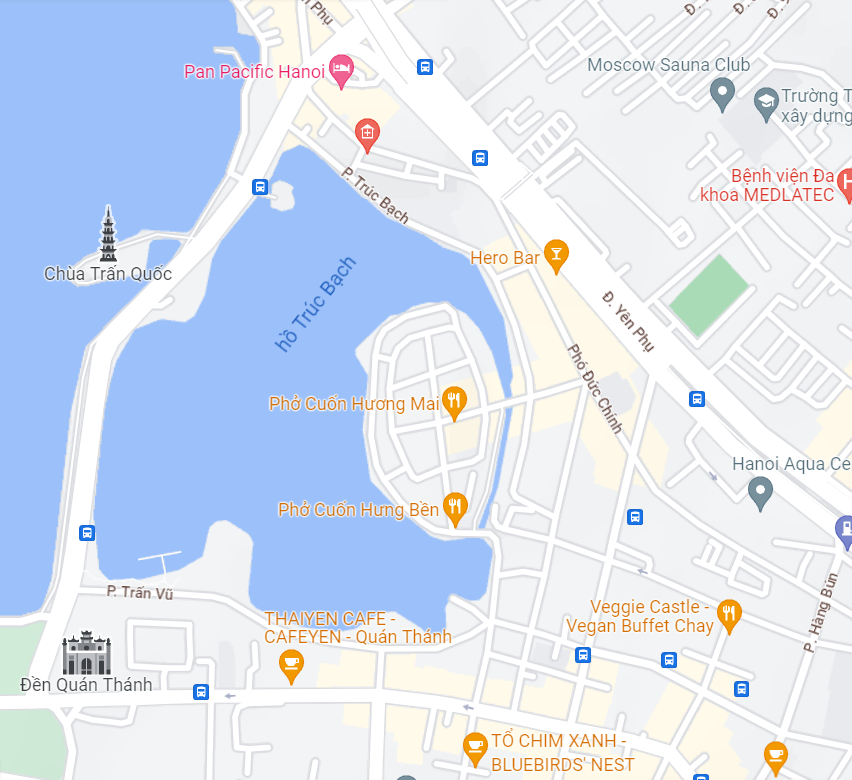
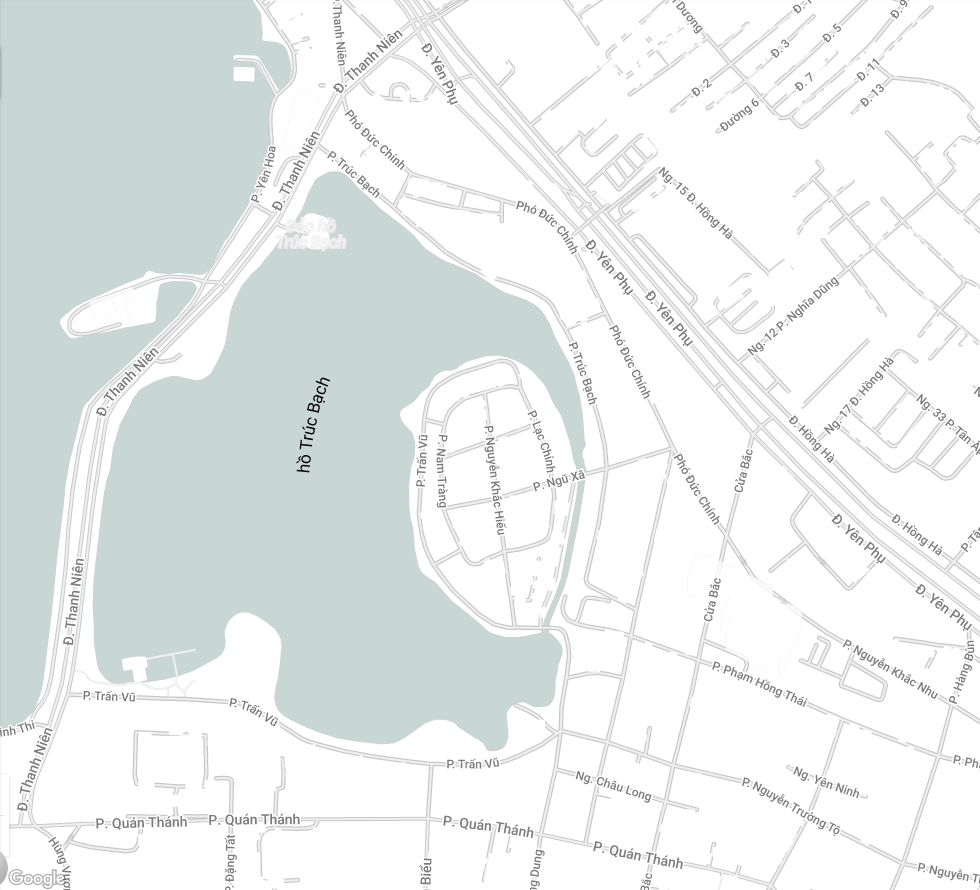
fix map background

diff --git a/src/const.py b/src/const.py
@@ -1,5 +1,5 @@
-WIDTH = 852
-HEIGHT = 780
+WIDTH = 890
+HEIGHT = 980
 INFINITY = 999999
 
 COLOR = {
